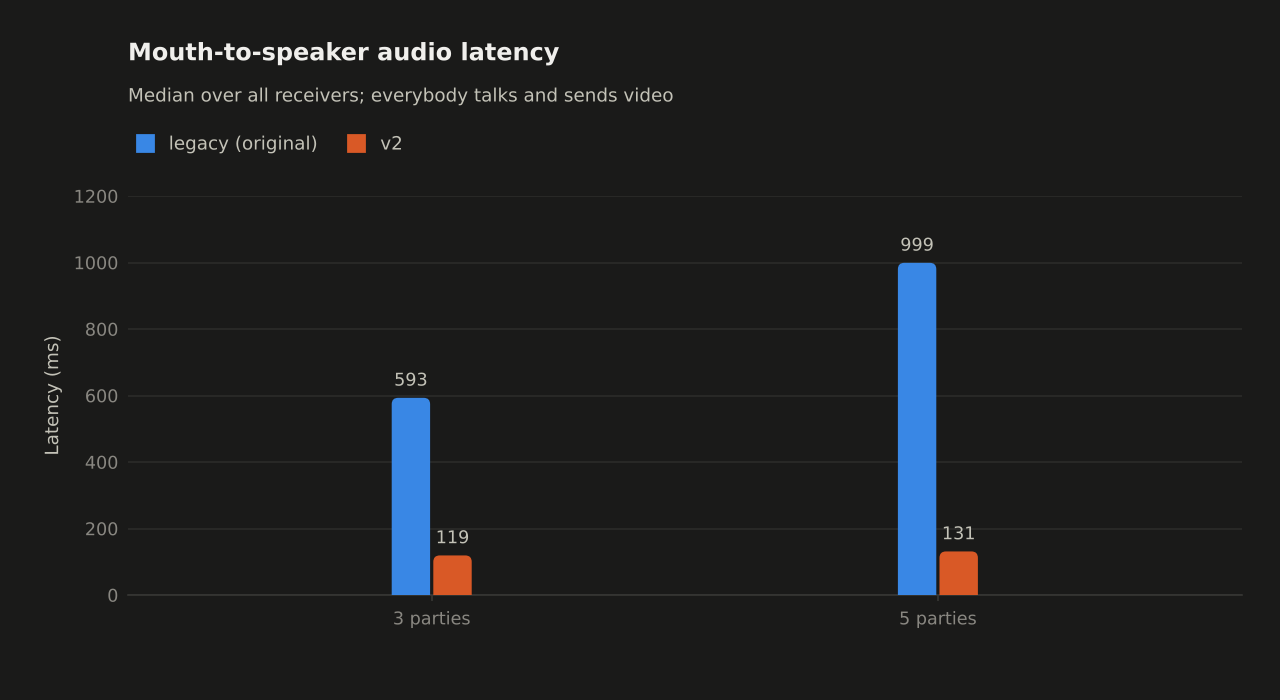
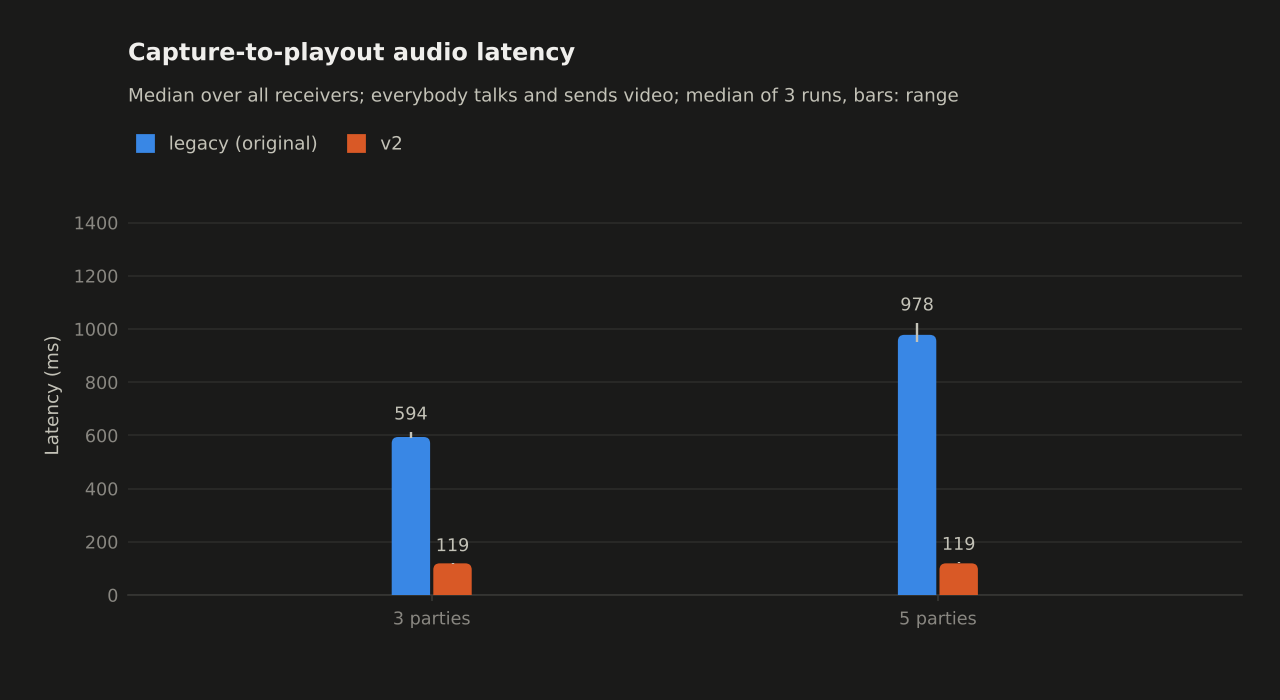
docs: B2 results with three repeats, as capture-to-playout latency
BENCHMARKS.md, the engineering notes (section 2.4) and the README now quote run
20261119T115303Z-29601 (bench/results/b2_audio.json): the 2024 version's median
capture-to-playout latency 594 ms (589-614) with three parties and 978 ms (952-1024)
with five, still rising at the end of the window with five, and 15.0-38.2 % of each
talker's audio played with five; v2 119 ms with three and with five parties and every
talker's audio played. The latency is named capture-to-playout throughout, both
simulated ends are stated next to the numbers, and the metrics paragraph explains the
latency rise and why a video ratio can exceed 100 % by one frame.

diff --git a/docs/BENCHMARKS.md b/docs/BENCHMARKS.md
@@ -243,27 +243,36 @@ counter.
 interface (each original participant on its own 127.0.0.x address, because the original
 relay skips receivers with the sender's IP). Everybody talks and sends video (corpus at
 15.625 fps) for the whole run. The measurement window starts 2.5 s after the last
-participant joined and lasts about 61 s.
+participant joined and lasts 60 s; each configuration runs three times.
 
-The original participants run the original `keep_share` and `keep_recv` threads. Their
-sound card is a stand-in (`bench/legacy_harness/stubs.py`) that models a blocking audio
-device: `read(1024)` returns when 1024 samples of real time have passed, and `write()`
-returns only once the previous chunk has finished playing, so a receiver that is handed
-more than real time of audio blocks in `write()` for one chunk duration per chunk. That
-is how PyAudio's blocking stream behaves once its buffer is full, and it is the
-assumption behind the original's numbers here. v2 participants run the real client with
-the server's mix-minus stream and the client's 60 ms jitter buffer; their speaker is a
-thread that pulls one 20 ms frame every 20 ms.
+Both ends are simulated: the microphones are synthetic tones and the speakers are
+stand-ins, and these stand-ins decide the original's numbers. The original participants
+run the original `keep_share` and `keep_recv` threads, and their sound card is
+`bench/legacy_harness/stubs.py`, a blocking device with room for one chunk: `read(1024)`
+returns when 1024 samples of real time have passed, and `write()` returns only once the
+previous chunk has finished playing. That is how PyAudio's blocking stream behaves once
+its buffer is full; a receiver handed more than real time of audio blocks in `write()`
+for one chunk duration per chunk, and the datagrams queue in its socket's receive
+buffer, whose size is this host's default (`net.core.rmem_default`, 212 992 bytes; the
+original sets only `SO_SNDBUF`). v2 participants run the real client with the server's
+mix-minus stream and the client's 60 ms jitter buffer; their speaker is a thread that
+takes one 20 ms frame every 20 ms.
 
-**Metrics.** Audio latency: from the end of a frame's capture at the talker to the
-moment the receiver's (fake) sound card starts playing it. Audio delivered: share of
-each talker's frames that were played, worst talker shown. Downstream audio: IP-level
-bit rate into each receiver (original: nftables counters on the receiver's port for
-datagrams under 4000 bytes; v2: client receive counters plus 28 bytes of IP and UDP
-header per packet). Video frames processed: frames of the other participants that the
-receiving application got (original: stored after decompression; v2: completed by the
-frame assembler), against frames sent. Video frozen: per sender, the time covered by gaps
-longer than 0.5 s between consecutive frames, as a share of the window.
+**Metrics.** Capture-to-playout latency: from the end of a frame's capture at the
+talker to the moment the receiver's stand-in sound card starts playing it (median over
+all frames played in the window, then the median of the three runs). Audio delivered:
+share of each talker's frames that were played, worst and best talker shown. Downstream
+audio: IP-level bit rate into each receiver (original: nftables counters on the
+receiver's port for datagrams under 4000 bytes; v2: client receive counters plus
+28 bytes of IP and UDP header per packet). Video frames processed: frames of the other
+participants that the receiving application got in the window (original: stored after
+decompression; v2: completed by the frame assembler), against frames sent in the
+window; a frame sent just before the window and received in it makes the ratio exceed
+100 % by one frame. Rise over the window: the receiver's median latency over the last
+5 s of the window minus that over the first 5 s. The JSON also has, per receiver, the
+longest gap between two frames of one sender (`longest_gap_s`), the share of the window
+covered by gaps longer than 0.5 s (`stalled_fraction`) and the latency series
+(`capture_to_playout_series`, 0.5 s bins).
 
 <picture>
   <source media="(prefers-color-scheme: dark)" srcset="../bench/results/plots/b2_audio_latency_dark.png">
@@ -281,33 +290,43 @@ longer than 0.5 s between consecutive frames, as a share of the window.
 </picture>
 
 <!-- BEGIN GENERATED b2 -->
-| System | Parties | Audio latency p50 / p95 (ms) | Audio delivered (worst talker) | Downstream audio per receiver (kbit/s) | Video frames processed | Longest video freeze | Video time frozen > 0.5 s |
-|---|---|---|---|---|---|---|---|
-| legacy (original) | 3 | 593 / 671 | 41.4 % | 525 | 25.0 % | 0.64 s | 19.5 % |
-| legacy (original) | 5 | 999 / 1210 | 15.2 % | 1050 | 8.1 % | 61.98 s | 70.9 % |
-| v2 | 3 | 119 / 125 | 100.0 % | 415 (275 without FEC) | 100.0 % | 0.10 s | 0.0 % |
-| v2 | 5 | 131 / 152 | 100.0 % | 420 (278 without FEC) | 100.0 % | 0.09 s | 0.0 % |
+| System | Parties | Runs | Capture-to-playout p50 (ms) | p95 (ms) | Rise over the window (ms) | Worst talker's audio played | Video frames processed | Downstream audio per receiver (kbit/s) |
+|---|---|---|---|---|---|---|---|---|
+| legacy (original) | 3 | 3 | 594 (589-614) | 682 (665-684) | 3 (-7 to 5) | 41.3 % (41.3-41.7) | 25.0 % | 525 |
+| legacy (original) | 5 | 3 | 978 (952-1024) | 1199 (1190-1204) | 364 (157-395) | 15.1 % (15.0-15.7) | 8.2 % (7.8-8.8) | 1050 |
+| v2 | 3 | 3 | 119 (117-119) | 128 (126-128) | 0 | 100.0 % | 100.0 % (99.9-100.0) | 415 |
+| v2 | 5 | 3 | 119 (119-124) | 135 (131-135) | 0 | 100.0 % | 100.0 % | 420 |
 <!-- END GENERATED b2 -->
 
-**Reading the results.**
+**Reading the results.** Numbers from `b2_audio.json` (run 20261119T115303Z-29601,
+built at 4fe5eca); medians of three runs with the range in brackets.
 
-- The original receiver has to play (n - 1) x real time of audio. Its receive thread
-  blocks in `write()`, the socket buffer fills (the kernel counted 7 532 receive-buffer
-  drops in the 3-party run and 34 315 in the 5-party run), and latency settles at the
-  depth of that buffer: a median of 593 ms with three parties and 999 ms with five,
-  while 41-59 % (three parties) and 63-85 % (five parties) of each talker's audio is
-  never played.
-- Because video arrives on the same socket and thread, video stalls with it: with five
-  parties each receiver processed 7.0-10.2 % of the others' frames, and every receiver
-  had a sender whose video did not arrive during the whole 62 s window (`longest_gap_s`).
-- v2's median latency (119 ms with three parties, 131 ms with five) is what its
-  configured buffers add up to: 40 ms in the server's per-sender jitter buffer, up to
-  20 ms of mixer tick phase, the client's 60 ms jitter buffer and up to 20 ms of device
-  period. It does not grow with the number of talkers, and neither does the downstream
-  audio rate, because every receiver gets one mixed stream.
-- v2's video costs more bandwidth than the original's: 20 587-20 590 kbit/s against
-  15 564-15 569 kbit/s per receiver with five parties (the `downstream_video` fields), from FEC
-  (25 %) and per-fragment headers.
+- The original receiver has to play (n - 1) x real time of audio through a speaker
+  that plays one. Its receive thread blocks in `write()`, the socket's receive buffer
+  fills (the kernel counted 7 522-7 533 receive-buffer drops per 3-party run and
+  34 125-34 382 per 5-party run, `Udp.RcvbufErrors` under `kernel`), and
+  capture-to-playout latency sits at the depth of that buffer: a median of 594 ms
+  (589-614) with three parties and 978 ms (952-1024) with five. With three parties it
+  is flat over the window (3 ms, -7 to 5); with five it was still rising at the end of
+  the window, by 364 ms (157-395). Of each talker's audio, 41.3-58.7 % was played with
+  three parties and 15.0-38.2 % with five (every receiver, talker and run); the rest
+  was never played.
+- Video arrives on the same socket and thread, so it stalls with the audio: each
+  receiver processed 25 % of the others' frames with three parties and 6.5-11.9 % with
+  five, and in 14 of the 15 five-party receiver runs one sender's video did not arrive
+  at all during the 62 s window (`longest_gap_s` 62 s).
+- v2 played every talker's audio in every run (100.0 %), with a median
+  capture-to-playout latency of 119 ms with three parties (117-119) and with five
+  (119-124), flat over the window. That is about the sum of its configured buffering:
+  40 ms in the server's per-sender jitter buffer, up to 20 ms of mixer tick phase, the
+  client's 60 ms jitter buffer and up to 20 ms of device period (a sum from the
+  configuration, not a per-stage measurement). Neither the latency nor the downstream
+  audio rate (415 and 420 kbit/s per receiver, FEC included) grows with the number of
+  talkers, because every receiver gets one mixed stream; the original's rate doubles
+  from three parties to five (525 and 1050 kbit/s).
+- v2's video costs more bandwidth than the original's: 20 580-20 590 kbit/s against
+  15 565-15 576 kbit/s per receiver with five parties (`downstream_video`), from FEC
+  (one parity packet per group of up to four fragments) and per-fragment headers.
 
 ## B3: relay capacity
 

diff --git a/docs/ENGINEERING_NOTES.md b/docs/ENGINEERING_NOTES.md
@@ -100,12 +100,15 @@ blocking output stream. In the benchmark that stream is a fake PyAudio device
 (`bench/legacy_harness/stubs.py`) whose `write()` blocks until the previous chunk has
 played, which is how a blocking sound device behaves. With two remote talkers the
 receiver must play 2 x real time of audio, so its UDP socket buffer overflows and the
-latency settles at the buffer depth: median mouth-to-speaker latency was 593 ms with
-three parties and 999 ms with five. Only 41-59 % (three parties) and 15-37 % (five
-parties) of each talker's chunks were played, and because the same thread receives
-video, the receivers processed 25.0 % (three parties) and 8.1 % (five parties) of the video
-frames; with five parties some senders' video never reached some receivers during the
-whole 62 s window.
+latency settles at the buffer depth: median capture-to-playout latency was 594 ms
+(589-614 over three runs) with three parties and 978 ms (952-1024) with five, where it
+was still rising at the end of the 62 s window. Only 41-59 % (three parties) and
+15-38 % (five parties) of each talker's chunks were played, and because the same thread
+receives video, the receivers processed 25.0 % (three parties) and 8.2 % (five parties,
+median of three runs) of the video frames; with five parties, in 14 of 15 receiver
+runs one sender's video never arrived during the whole window. Both ends are
+simulated (synthetic microphones, stand-in speakers, loopback), and the original's
+numbers depend on its stand-in speaker (`docs/BENCHMARKS.md`, B2).
 
 **Fix.** The server runs one 20 ms mixer per room. Each sender's audio goes through a
 small jitter buffer (2 frames); every tick the mixer sums all active senders in int32
@@ -115,14 +118,16 @@ gets one stream with a CSRC list naming the talkers in it. The client plays it t
 60 ms jitter buffer with packet-loss concealment (repeat the last frame at half
 amplitude, at most three times).
 
-**Measured.** v2 median mouth-to-speaker latency: 119 ms (three parties) and 131 ms
-(five parties), with every talker's audio delivered and every video frame processed.
-Downstream audio per receiver is constant in the number of talkers: 415 and 420 kbit/s
-including audio FEC (275 and 278 kbit/s without it), against 525 and 1 050 kbit/s for the
-original, which forwards every talker's stream separately.
+**Measured.** v2 median capture-to-playout latency: 119 ms with three parties (117-119
+over three runs) and with five (119-124), with every talker's audio played and every
+video frame processed (`bench/results/b2_audio.json`). Downstream audio per receiver is
+constant in the number of talkers: 415 and 420 kbit/s including audio FEC (275 and
+278 kbit/s without it), against 525 and 1 050 kbit/s for the original, which forwards
+every talker's stream separately.
 
-**Trade-off.** The server now decodes and re-encodes audio (cheap for L16: 5.2 µs per
-4-member tick in the microbenchmark) and adds a mixer jitter buffer of 40 ms. A receiver
+**Trade-off.** The server now decodes and re-encodes audio (cheap for L16: a median of
+7.4 µs per 4-member tick in the microbenchmark, `bench/results/micro.json`) and adds a
+mixer jitter buffer of 40 ms. A receiver
 cannot mute individual talkers locally any more.
 
 ### 2.5 Identity by SSRC and token, not by IP address (fixes 5 and 6)

diff --git a/README.md b/README.md
@@ -52,18 +52,19 @@ frame arrives ([`docs/ENGINEERING_NOTES.md`](docs/ENGINEERING_NOTES.md#211-nack-
 <!-- BEGIN GENERATED summary_b2 -->
 | | 3 parties, legacy (original) | 3 parties, v2 | 5 parties, legacy (original) | 5 parties, v2 |
 |---|---|---|---|---|
-| Audio latency, median | 593 ms | 119 ms | 999 ms | 131 ms |
-| Audio played, worst talker | 41.4 % | 100.0 % | 15.2 % | 100.0 % |
+| Capture-to-playout latency, median | 594 ms (589-614) | 119 ms (117-119) | 978 ms (952-1024) | 119 ms (119-124) |
+| Audio played, worst talker | 41.3 % (41.3-41.7) | 100.0 % | 15.1 % (15.0-15.7) | 100.0 % |
 | Downstream audio per receiver | 525 kbit/s | 415 kbit/s | 1050 kbit/s | 420 kbit/s |
-| Video frames processed | 25.0 % | 100.0 % | 8.1 % | 100.0 % |
+| Video frames processed | 25.0 % | 100.0 % (99.9-100.0) | 8.2 % (7.8-8.8) | 100.0 % |
 <!-- END GENERATED summary_b2 -->
 
 The original plays every talker's chunks one after another on a blocking audio stream,
 so with two or more talkers playback falls behind real time and the same thread stops
-reading video. These numbers assume a sound card whose `write()` blocks while the
-previous chunk plays (a stand-in device, see [`docs/BENCHMARKS.md`](docs/BENCHMARKS.md#b2-multi-talker-audio));
-no real audio hardware was available. v2 mixes on the server (mix-minus) and sends each
-receiver one stream.
+reading video. Both ends are simulated (synthetic tones as microphones, stand-in
+speakers; no audio hardware was available), and the original's numbers assume a sound
+card whose `write()` blocks while the previous chunk plays (see
+[`docs/BENCHMARKS.md`](docs/BENCHMARKS.md#b2-multi-talker-audio)). v2 mixes on the
+server (mix-minus) and sends each receiver one stream.
 
 **Relay capacity (B3).** Rooms of four, 15 fps per participant, the server pinned to
 one CPU, on loopback:
